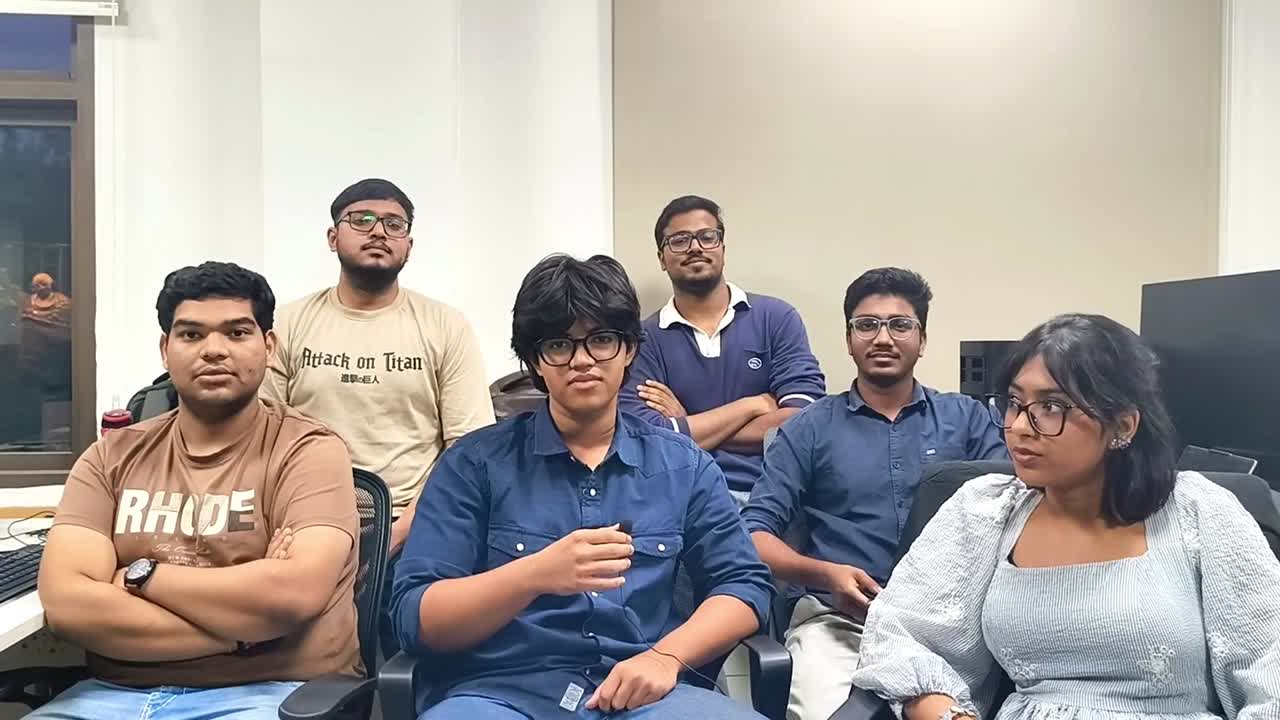
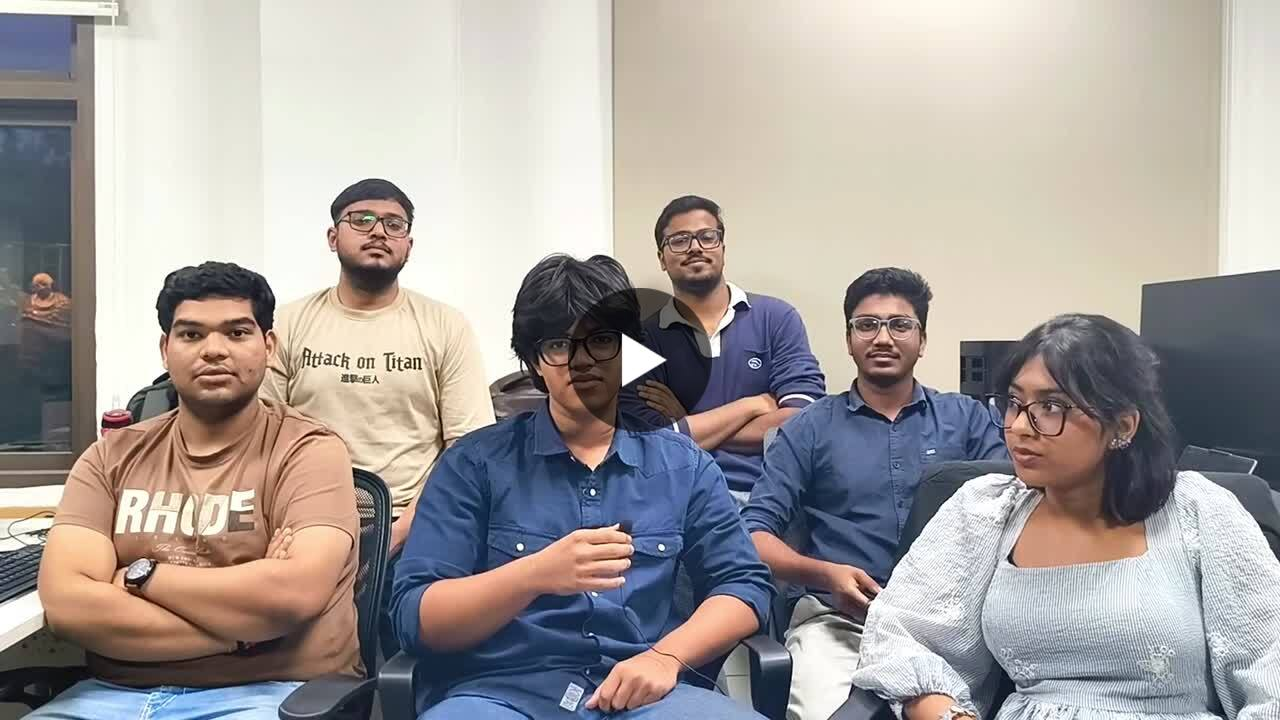
feat(pricing): update pricing to intro and regular tiers with 1-month trial

Changed region(s): [[0.4375, 0.3972, 0.5625, 0.6111]]

diff --git a/app/(main)/pricing/pricing-client.tsx b/app/(main)/pricing/pricing-client.tsx
@@ -161,7 +161,7 @@ const comparisonSections: ComparisonSection[] = [
       },
       {
         name: "Total estimated monthly stack cost per user",
-        keil: "₹500 intro → ₹2,000/mo (Pro) · ₹1,500 intro → ₹5,000/mo (5 seats) · ₹800/extra seat",
+        keil: "1-mo free trial · ₹500 1st mo → ₹1,800/mo (Personal) · ₹1,500 1st mo → ₹5,000/mo (Teams of 5) · ₹1,000/extra seat up to 20 seats · Custom for 20+",
         alternatives: "$60 – $120+ / user / mo when combining Slack ($8.75) + ClickUp ($12) + Notion ($10) + Fireflies ($10) + CRM ($15+).",
       },
     ],
@@ -183,10 +183,10 @@ const competitorGotchas: CompetitorGotcha[] = [
   {
     platform: "KeilHQ",
     badge: "Transparent Core",
-    price: "₹500 intro / mo · Pro: ₹2,000/mo · Teams (5): ₹5,000/mo",
+    price: "1-mo free trial · Personal: ₹500 1st mo → ₹1,800/mo · Teams (5): ₹1,500 1st mo → ₹5,000/mo",
     logo: "/keilhq.svg",
-    gotcha: "Zero seat penalty mandates. AI, team chat, rich docs, meeting recorder bot, CRM, and finance are built into the single platform core. Add extra seats to Teams at ₹800 / seat / mo.",
-    verdict: "₹500/mo (Solo intro) · ₹800/extra seat (Teams)",
+    gotcha: "Zero seat penalty mandates. 1-month free trial on all plans. First month at ₹500 (Personal) and ₹1,500 (Teams of 5), followed by regular ₹1,800/mo (Personal) and ₹5,000/mo (Teams of 5). Add extra seats to Teams at ₹1,000 / seat / mo up to 20 seats, followed by custom pricing for 20+.",
+    verdict: "₹500 1st mo → ₹1,800/mo (Personal) · ₹1,000/extra seat up to 20 (Teams)",
     isKeil: true,
   },
   {
@@ -240,11 +240,19 @@ const competitorGotchas: CompetitorGotcha[] = [
 const faqs = [
   {
     q: "Does the free trial require a credit card?",
-    a: "No. The 1-month Pro trial is completely free — no credit card needed. You only enter payment details if you choose to continue after 30 days.",
+    a: "No. The 1-month free trial is completely free — no credit card needed. You only enter payment details if you choose to continue after your 30-day trial.",
+  },
+  {
+    q: "How does the 1-month free trial and introductory pricing work?",
+    a: "Every workspace starts with a 1-month free trial with full access. After your free trial, your first month is available at special introductory pricing: ₹500 for Personal and ₹1,500 for Teams (includes 5 seats). From the second month onward, regular pricing applies: ₹1,800/mo for Personal and ₹5,000/mo for Teams of 5 people.",
+  },
+  {
+    q: "How does seat pricing work for Teams and growing companies?",
+    a: "The Teams plan includes 5 seats for ₹5,000/mo (or ₹4,500/mo on annual). You can add extra seats for ₹1,000/seat/mo up to 20 members. For teams larger than 20 people, we offer custom Enterprise pricing with volume discounts, dedicated deployments, and tailored SLAs.",
   },
   {
     q: "Can I switch between monthly and annual billing at any time?",
-    a: "Yes. You can switch cycles at any point — billing adjustments are prorated automatically. Pro is ₹2,000/mo on monthly or ₹1,800/mo on annual. Teams (5 seats) is ₹5,000/mo monthly or ₹4,500/mo annual. Additional seats on Teams are ₹800/seat/mo regardless of cycle.",
+    a: "Yes. You can switch cycles at any point — billing adjustments are prorated automatically. Personal is ₹1,800/mo on monthly or ₹1,620/mo on annual. Teams (5 seats) is ₹5,000/mo monthly or ₹4,500/mo annual. Additional seats on Teams are ₹1,000/seat/mo (or ₹900/seat/mo annual) up to 20 seats.",
   },
   {
     q: "What happens to my data if I don't upgrade after the trial?",
@@ -252,7 +260,7 @@ const faqs = [
   },
   {
     q: "Is my customer and workspace data used to train AI models?",
-    a: "On all paid plans (Pro, Teams, Enterprise), customer data is strictly isolated and never used to train public or foundation models.",
+    a: "On all paid plans (Personal, Teams, Enterprise), customer data is strictly isolated and never used to train public or foundation models.",
   },
   {
     q: "How does KeilHQ replace 5+ separate subscriptions?",
@@ -290,20 +298,20 @@ function FAQItem({ q, a }: { q: string; a: string }) {
 
 /* ─── Plan pricing data ──────────────────────────────────────────────────── */
 const plans = {
-  pro: {
-    monthly: { intro: "₹500", real: "₹2,000", sub: "/ mo" },
-    annual: { intro: "₹500", real: "₹1,800", sub: "/ mo" },
+  personal: {
+    monthly: { intro: "₹500", regular: "₹1,800", sub: "/ mo" },
+    annual: { intro: "₹500", regular: "₹1,620", sub: "/ mo" },
   },
   teams: {
-    monthly: { intro: "₹1,500", real: "₹5,000", sub: "/ mo for 5 seats" },
-    annual: { intro: "₹1,500", real: "₹4,500", sub: "/ mo for 5 seats" },
+    monthly: { intro: "₹1,500", regular: "₹5,000", sub: "/ mo for 5 seats", extraSeat: "₹1,000" },
+    annual: { intro: "₹1,500", regular: "₹4,500", sub: "/ mo for 5 seats", extraSeat: "₹900" },
   },
 } as const;
 
 export function PricingClient() {
   const [billingCycle, setBillingCycle] = useState<"annual" | "monthly">("annual");
   const isAnnual = billingCycle === "annual";
-  const pro = plans.pro[billingCycle];
+  const personal = plans.personal[billingCycle];
   const teams = plans.teams[billingCycle];
 
   return (
@@ -374,16 +382,16 @@ export function PricingClient() {
                 <div>
                   <h3 className="font-display text-lg font-semibold text-foreground">Free Trial</h3>
                   <p className="text-[13px] text-muted-foreground mt-1.5 leading-relaxed font-sans">
-                    For individuals exploring unified AI clarity.
+                    For individuals &amp; teams exploring unified AI clarity.
                   </p>
                 </div>
 
                 <div className="flex flex-col gap-0.5 font-display">
                   <div className="flex items-baseline gap-1">
                     <span className="text-3xl font-semibold text-foreground">₹0</span>
-                    <span className="text-xs text-muted-foreground font-sans">/ 30 days</span>
+                    <span className="text-xs text-muted-foreground font-sans">/ 1 month</span>
                   </div>
-                  <span className="text-[11px] text-muted-foreground font-sans">No credit card required</span>
+                  <span className="text-[11px] text-muted-foreground font-sans">30 days free · No credit card required</span>
                 </div>
 
                 <Link
@@ -405,6 +413,7 @@ export function PricingClient() {
 
                 <div className="flex flex-col gap-3 pt-4 border-t border-border/40 text-[13px] text-muted-foreground font-sans">
                   <span className="text-[11px] uppercase tracking-wider text-foreground font-semibold font-display">Includes:</span>
+                  <div className="flex items-center gap-2.5"><Check className="size-3.5 text-foreground shrink-0 stroke-[2.5]" /> <span>1-month full access to workspace</span></div>
                   <div className="flex items-center gap-2.5"><Check className="size-3.5 text-foreground shrink-0 stroke-[2.5]" /> <span>Up to 5 workspace members</span></div>
                   <div className="flex items-center gap-2.5"><Check className="size-3.5 text-foreground shrink-0 stroke-[2.5]" /> <span>Unlimited tasks &amp; docs</span></div>
                   <div className="flex items-center gap-2.5"><Check className="size-3.5 text-foreground shrink-0 stroke-[2.5]" /> <span>25 AI agent prompts / day</span></div>
@@ -414,12 +423,12 @@ export function PricingClient() {
               </div>
             </div>
 
-            {/* Plan 2: Pro (Personal) */}
+            {/* Plan 2: Personal */}
             <div className="bg-background p-8 flex flex-col justify-between gap-8 relative">
               <div className="flex flex-col gap-6">
                 <div>
                   <div className="flex items-center justify-between">
-                    <h3 className="font-display text-lg font-semibold text-foreground">Pro (Personal)</h3>
+                    <h3 className="font-display text-lg font-semibold text-foreground">Personal</h3>
                     <span className="text-[10px] px-2 py-0.5 rounded-full bg-[var(--color-copper)]/15 text-[var(--color-copper)] font-semibold uppercase tracking-wider font-display">
                       Popular
                     </span>
@@ -429,16 +438,21 @@ export function PricingClient() {
                   </p>
                 </div>
 
-                <div className="flex flex-col gap-1 font-display">
-                  {/* Intro price — hero number */}
+                <div className="flex flex-col gap-1.5 font-display">
+                  {/* Regular price — hero number */}
                   <div className="flex items-baseline gap-1.5">
-                    <span className="text-3xl font-semibold text-foreground">{pro.intro}</span>
-                    <span className="text-xs text-muted-foreground font-sans">{pro.sub}</span>
+                    <span className="text-3xl font-semibold text-foreground">{personal.regular}</span>
+                    <span className="text-xs text-muted-foreground font-sans">{personal.sub}</span>
                   </div>
-                  {/* Real price — shown as "then" beneath */}
-                  <span className="text-[11px] text-muted-foreground font-sans">
-                    for first 3 months, then {pro.real}{pro.sub === "/ mo" ? "/mo" : "/mo"}
-                  </span>
+                  {/* 1 month free trial + intro offer */}
+                  <div className="flex flex-col gap-0.5 text-[11px] font-sans">
+                    <span className="text-[var(--color-copper)] font-medium">
+                      {personal.intro} for your first month
+                    </span>
+                    <span className="text-muted-foreground">
+                      Applicable after 1-month free trial
+                    </span>
+                  </div>
                 </div>
 
                 <Link
@@ -447,19 +461,21 @@ export function PricingClient() {
                   rel="noopener noreferrer"
                   onClick={() =>
                     trackStartFreeClick({
-                      location: "pricing_card_pro",
-                      label: "Get Pro",
-                      plan: "Pro",
+                      location: "pricing_card_personal",
+                      label: "Get Personal",
+                      plan: "Personal",
                       href: WAITLIST_URL,
                     })
                   }
                   className="w-full py-2.5 px-4 rounded-md bg-primary hover:bg-primary/90 text-primary-foreground text-xs font-semibold text-center transition-transform duration-150 active:scale-[0.97] font-display shadow-xs"
                 >
-                  Get Pro
+                  Get Personal
                 </Link>
 
                 <div className="flex flex-col gap-3 pt-4 border-t border-border/40 text-[13px] text-muted-foreground font-sans">
                   <span className="text-[11px] uppercase tracking-wider text-foreground font-semibold font-display">Everything in Trial, plus:</span>
+                  <div className="flex items-center gap-2.5"><Check className="size-3.5 text-foreground shrink-0 stroke-[2.5]" /> <span>1-month free trial included</span></div>
+                  <div className="flex items-center gap-2.5"><Check className="size-3.5 text-foreground shrink-0 stroke-[2.5]" /> <span>₹500 first month intro pricing</span></div>
                   <div className="flex items-center gap-2.5"><Check className="size-3.5 text-foreground shrink-0 stroke-[2.5]" /> <span>Unlimited personal workspace &amp; storage</span></div>
                   <div className="flex items-center gap-2.5"><Check className="size-3.5 text-foreground shrink-0 stroke-[2.5]" /> <span>100 AI prompts / day</span></div>
                   <div className="flex items-center gap-2.5"><Check className="size-3.5 text-foreground shrink-0 stroke-[2.5]" /> <span>Unlimited live meeting bot</span></div>
@@ -469,26 +485,31 @@ export function PricingClient() {
               </div>
             </div>
 
-            {/* Plan 3: Teams (5 People) */}
+            {/* Plan 3: Teams (5 to 20 People) */}
             <div className="bg-background p-8 flex flex-col justify-between gap-8">
               <div className="flex flex-col gap-6">
                 <div>
                   <h3 className="font-display text-lg font-semibold text-foreground">Teams</h3>
                   <p className="text-[13px] text-muted-foreground mt-1.5 leading-relaxed font-sans">
-                    For growing squads of 5 members needing shared context.
+                    For growing squads needing shared context and speed.
                   </p>
                 </div>
 
-                <div className="flex flex-col gap-1 font-display">
-                  {/* Intro price — hero number */}
+                <div className="flex flex-col gap-1.5 font-display">
+                  {/* Regular price — hero number */}
                   <div className="flex items-baseline gap-1.5">
-                    <span className="text-3xl font-semibold text-foreground">{teams.intro}</span>
+                    <span className="text-3xl font-semibold text-foreground">{teams.regular}</span>
                     <span className="text-xs text-muted-foreground font-sans">{teams.sub}</span>
                   </div>
-                  {/* Real price — shown as "then" beneath */}
-                  <span className="text-[11px] text-muted-foreground font-sans">
-                    for first 3 months, then {teams.real}/mo
-                  </span>
+                  {/* 1 month free trial + intro offer */}
+                  <div className="flex flex-col gap-0.5 text-[11px] font-sans">
+                    <span className="text-[var(--color-copper)] font-medium">
+                      {teams.intro} for your first month (5 seats)
+                    </span>
+                    <span className="text-muted-foreground">
+                      Applicable after 1-month free trial
+                    </span>
+                  </div>
                 </div>
 
                 <Link
@@ -509,9 +530,11 @@ export function PricingClient() {
                 </Link>
 
                 <div className="flex flex-col gap-3 pt-4 border-t border-border/40 text-[13px] text-muted-foreground font-sans">
-                  <span className="text-[11px] uppercase tracking-wider text-foreground font-semibold font-display">Everything in Pro, plus:</span>
+                  <span className="text-[11px] uppercase tracking-wider text-foreground font-semibold font-display">Everything in Personal, plus:</span>
                   <div className="flex items-center gap-2.5"><Check className="size-3.5 text-foreground shrink-0 stroke-[2.5]" /> <span>Includes 5 workspace members</span></div>
-                  <div className="flex items-center gap-2.5"><Check className="size-3.5 text-foreground shrink-0 stroke-[2.5]" /> <span>₹800 / extra seat / mo (scalable)</span></div>
+                  <div className="flex items-center gap-2.5"><Check className="size-3.5 text-foreground shrink-0 stroke-[2.5]" /> <span>₹1,500 first month intro pricing</span></div>
+                  <div className="flex items-center gap-2.5"><Check className="size-3.5 text-foreground shrink-0 stroke-[2.5]" /> <span>₹1,000 / extra seat / mo (up to 20 people)</span></div>
+                  <div className="flex items-center gap-2.5"><Check className="size-3.5 text-foreground shrink-0 stroke-[2.5]" /> <span>Custom pricing for teams of 20+</span></div>
                   <div className="flex items-center gap-2.5"><Check className="size-3.5 text-foreground shrink-0 stroke-[2.5]" /> <span>Single Sign-On (SAML / SSO)</span></div>
                   <div className="flex items-center gap-2.5"><Check className="size-3.5 text-foreground shrink-0 stroke-[2.5]" /> <span>Detailed audit &amp; activity logs</span></div>
                   <div className="flex items-center gap-2.5"><Check className="size-3.5 text-foreground shrink-0 stroke-[2.5]" /> <span>Advanced admin permissions</span></div>
@@ -526,7 +549,7 @@ export function PricingClient() {
                 <div>
                   <h3 className="font-display text-lg font-semibold text-foreground">Enterprise</h3>
                   <p className="text-[13px] text-muted-foreground mt-1.5 leading-relaxed font-sans">
-                    For organizations with compliance &amp; on-prem needs.
+                    For organizations with 20+ people or compliance &amp; on-prem needs.
                   </p>
                 </div>
 
@@ -534,7 +557,7 @@ export function PricingClient() {
                   <div className="flex items-baseline gap-1">
                     <span className="text-3xl font-semibold text-foreground">Custom</span>
                   </div>
-                  <span className="text-[11px] text-muted-foreground font-sans">Custom annual contracts</span>
+                  <span className="text-[11px] text-muted-foreground font-sans">For 20+ seats or custom annual contracts</span>
                 </div>
 
                 <a
@@ -546,6 +569,7 @@ export function PricingClient() {
 
                 <div className="flex flex-col gap-3 pt-4 border-t border-border/40 text-[13px] text-muted-foreground font-sans">
                   <span className="text-[11px] uppercase tracking-wider text-foreground font-semibold font-display">Everything in Teams, plus:</span>
+                  <div className="flex items-center gap-2.5"><Check className="size-3.5 text-foreground shrink-0 stroke-[2.5]" /> <span>Tailored volume pricing for 20+ members</span></div>
                   <div className="flex items-center gap-2.5"><Check className="size-3.5 text-foreground shrink-0 stroke-[2.5]" /> <span>Self-hosted / On-prem database</span></div>
                   <div className="flex items-center gap-2.5"><Check className="size-3.5 text-foreground shrink-0 stroke-[2.5]" /> <span>Custom SLAs &amp; legal contracts</span></div>
                   <div className="flex items-center gap-2.5"><Check className="size-3.5 text-foreground shrink-0 stroke-[2.5]" /> <span>Unlimited custom AI models</span></div>

diff --git a/lib/llms.ts b/lib/llms.ts
@@ -95,10 +95,10 @@ export async function generateLlmsText(): Promise<string> {
   sections.push(
     `## Pricing Plans`,
     ``,
-    `- **Free Trial**: $0 for 30 days. Full access to Pro features, multi-agent AI assistant, unlimited tasks, and collaborative docs. No credit card required.`,
-    `- **Pro Plan**: $10 per seat/month. Complete AI workspace, unlimited tasks, collaborative docs, Google Calendar sync, and standard AI queries.`,
-    `- **Teams Plan**: $25 per seat/month. Multi-agent workspaces, native meeting recording with AI transcription, relational CRM, advanced permissions, and priority support.`,
-    `- **Enterprise Plan**: Custom pricing. Dedicated deployment, custom LLM routing, SLA guarantees, audit logs, and SOC 2 compliance.`,
+    `- **Free Trial**: ₹0 for 1 month (30 days). Full access to all workspace features, multi-agent AI assistant, unlimited tasks, and collaborative docs. No credit card required.`,
+    `- **Personal Plan**: ₹1,800/month regular pricing (₹1,620/month billed annually). First month introductory pricing at ₹500 applicable after the 1-month free trial. Unlimited personal workspace, 100 AI queries/day, live meeting recording bot, relational CRM pipelines, zero AI model training.`,
+    `- **Teams Plan**: ₹5,000/month for 5 seats (₹4,500/month billed annually). First month introductory pricing at ₹1,500 (5 seats) applicable after the 1-month free trial. Extra seats available at ₹1,000/seat/month (up to 20 seats). Includes multi-agent workspaces, native meeting recording with AI transcription, relational CRM, SAML SSO, audit logs, and priority support.`,
+    `- **Enterprise Plan**: Custom volume pricing for teams with 20+ members. Dedicated deployment, custom LLM routing, custom SLAs, audit logs, and on-prem database options. Contact hello@keilhq.in.`,
     ``
   );
 

diff --git a/app/(main)/pricing/page.tsx b/app/(main)/pricing/page.tsx
@@ -57,24 +57,30 @@ const softwarePricingSchema = {
       "@type": "Offer",
       name: "Free Trial",
       price: "0",
-      priceCurrency: "USD",
-      description: "30-day Pro trial with all features and AI assistant access.",
+      priceCurrency: "INR",
+      description: "1-month free trial with all features and AI assistant access. No credit card required.",
     },
     {
       "@type": "Offer",
-      name: "Pro Plan",
-      price: "10.00",
-      priceCurrency: "USD",
+      name: "Personal Plan",
+      price: "1800.00",
+      priceCurrency: "INR",
       billingDuration: "P1M",
-      description: "For individuals & fast-moving teams. Unlimited tasks, collaborative docs, AI assistant.",
+      description: "For individuals & fast-moving professionals. First month at ₹500 intro pricing applicable after the 1-month free trial, then ₹1,800/mo regular pricing.",
     },
     {
       "@type": "Offer",
       name: "Teams Plan",
-      price: "25.00",
-      priceCurrency: "USD",
+      price: "5000.00",
+      priceCurrency: "INR",
       billingDuration: "P1M",
-      description: "For scaling organizations. Multi-agent workspaces, meeting recording with AI transcription, CRM, and priority support.",
+      description: "For scaling squads. Includes 5 seats. First month at ₹1,500 intro pricing applicable after the 1-month free trial, then ₹5,000/mo regular pricing. ₹1,000/extra seat/mo up to 20 seats.",
+    },
+    {
+      "@type": "Offer",
+      name: "Enterprise Plan",
+      priceCurrency: "INR",
+      description: "Custom volume pricing for teams with 20+ members, tailored SLAs, on-prem database options, and dedicated account support.",
     },
   ],
 };

diff --git a/components/json-ld.tsx b/components/json-ld.tsx
@@ -187,10 +187,13 @@ export function JsonLd() {
     keywords:
       "task management, AI workspace, team collaboration, meeting transcription, project management, CRM, docs, chat, calendar sync, multi-agent AI",
     offers: {
-      "@type": "Offer",
-      price: "0",
-      priceCurrency: "USD",
-      description: "Free to start, paid plans for growing teams.",
+      "@type": "AggregateOffer",
+      lowPrice: "0",
+      highPrice: "5000",
+      priceCurrency: "INR",
+      offerCount: 4,
+      description:
+        "1-month free trial, introductory pricing from ₹500 (Personal) and ₹1,500 (Teams of 5), regular pricing from ₹1,800/mo (Personal) and ₹5,000/mo (Teams of 5) + ₹1,000/seat up to 20 seats, followed by custom Enterprise.",
     },
     publisher: { "@id": `${BASE_URL}/#organization` },
     screenshot: [
@@ -216,18 +219,22 @@ export function JsonLd() {
     <>
       <script
         type="application/ld+json"
+        suppressHydrationWarning
         dangerouslySetInnerHTML={{ __html: JSON.stringify(organizationSchema) }}
       />
       <script
         type="application/ld+json"
+        suppressHydrationWarning
         dangerouslySetInnerHTML={{ __html: JSON.stringify(websiteSchema) }}
       />
       <script
         type="application/ld+json"
+        suppressHydrationWarning
         dangerouslySetInnerHTML={{ __html: JSON.stringify(siteNavigationSchema) }}
       />
       <script
         type="application/ld+json"
+        suppressHydrationWarning
         dangerouslySetInnerHTML={{ __html: JSON.stringify(softwareAppSchema) }}
       />
     </>
